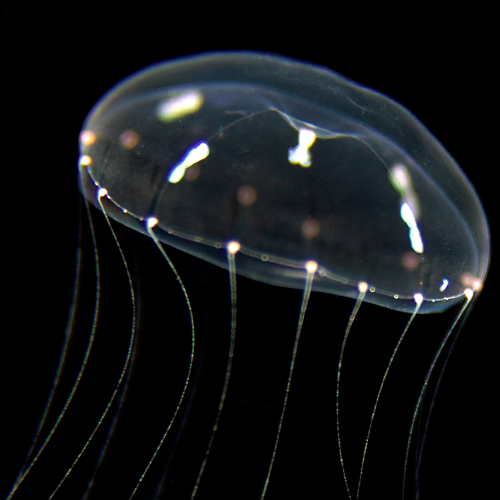
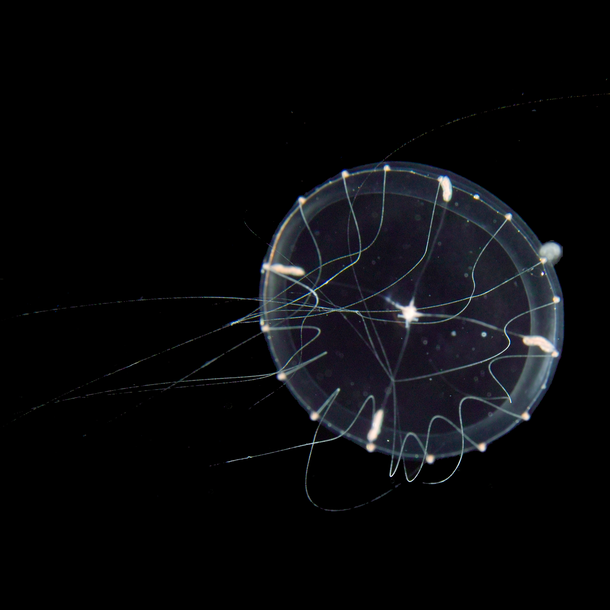
mz clytia hemisphaerica annotation section fix (#31)

diff --git a/metazoa/species/Clytia/Clytia_hemisphaerica/Clytia_hemisphaerica_gca902728285_about.md b/metazoa/species/Clytia/Clytia_hemisphaerica/Clytia_hemisphaerica_gca902728285_about.md
@@ -1,6 +1,6 @@
 About *Clytia hemisphaerica*
 ------------------------
 
-_Clytia hemisphaerica_ is a hydrozoan–group cnidarian with both a colonial, vegetatively propagating polyp stage and free-living, sexual medusae. The evolutionary interest of the medusa lies in many complex features including striated muscle and sense organs that are absent in the polyp. In recent years, _Clytia_ has helped answer questions including regulation of oocyte maturation, origins of embryo polarity and evolution of Hox genes and striated muscle.[1]
+_Clytia hemisphaerica_ is a hydrozoan–group cnidarian with both a colonial, vegetatively propagating polyp stage and free-living, sexual medusae. The evolutionary interest of the medusa lies in many complex features including striated muscle and sense organs that are absent in the polyp. In recent years, _Clytia_ has helped answer questions including regulation of oocyte maturation, origins of embryo polarity and evolution of Hox genes and striated muscle.[1,2]
 
-Picture credit: [MARIMBA (Marine Invertebrate Models Database)](http://marimba.obs-vlfr.fr/organism/Clytia/hemisphaerica)
+Picture credit: Marion Lechable and Alexandre Jan, Laboratoire de Biologie du Développement de Villefranche-sur-mer [2]

diff --git a/metazoa/species/Clytia/Clytia_hemisphaerica/Clytia_hemisphaerica_gca902728285_references.md b/metazoa/species/Clytia/Clytia_hemisphaerica/Clytia_hemisphaerica_gca902728285_references.md
@@ -2,4 +2,7 @@
 
 1. [Clytia hemisphaerica MARIMBA page](http://marimba.obs-vlfr.fr/organism/Clytia/hemisphaerica). [Marine Invertebrate Models Database](http://marimba.obs-vlfr.fr) (accessed October 9, 2020)
 
-Picture credit: [MARIMBA (Marine Invertebrate Models Database)](http://marimba.obs-vlfr.fr/organism/Clytia/hemisphaerica)
+2. [The genome of the jellyfish Clytia hemisphaerica and the evolution of the cnidarian life-cycle](https://europepmc.org/article/MED/30858591). Leclère L, Horin C, Chevalier S, Lapébie P, Dru P, Peron S, Jager M, Condamine T, Pottin K, Romano S, Steger J, Sinigaglia C, Barreau C, Quiroga Artigas G, Ruggiero A, Fourrage C, Kraus JEM, Poulain J, Aury JM, Wincker P, Quéinnec E, Technau U, Manuel M, Momose T, Houliston E, Copley RR. Nat Ecol Evol. 2019 May;3(5):801-810. doi: 10.1038/s41559-019-0833-2.
+
+
+Picture credit: Picture credit: Marion Lechable and Alexandre Jan, Laboratoire de Biologie du Développement de Villefranche-sur-mer [2]

diff --git a/metazoa/species/Clytia/Clytia_hemisphaerica/Clytia_hemisphaerica_gca902728285_annotation.md b/metazoa/species/Clytia/Clytia_hemisphaerica/Clytia_hemisphaerica_gca902728285_annotation.md
@@ -2,4 +2,4 @@ Annotation
 --------
 
 The *Clytia hemisphaerica*  gene models were provided as GFF3 file by the
-[MARIMBA (Marine Invertebrate Models Database)](http://marimba.obs-vlfr.fr/) project. Non-coding RNA genes were added with the standard [Ensembl Genomes pipeline](https://metazoa.ensembl.org/info/genome/annotation/ncrna.html).
+[MARIMBA (Marine Invertebrate Models Database)](http://marimba.obs-vlfr.fr/) project. Non-coding RNA genes were added with the [Ensembl Genomes RNA gene annotation pipeline](https://metazoa.ensembl.org/info/genome/annotation/ncrna.html).
